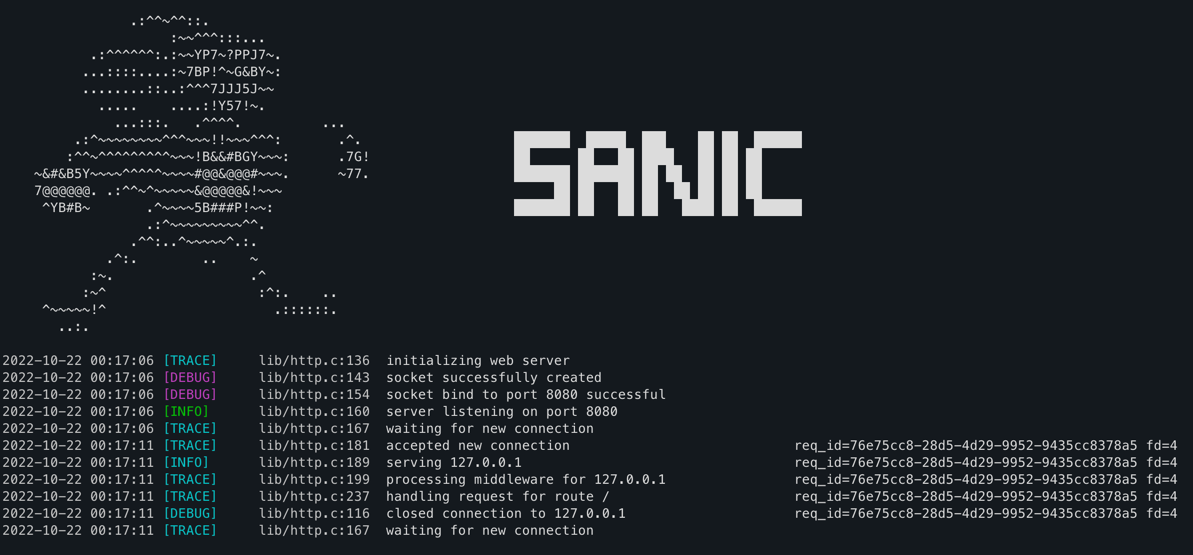
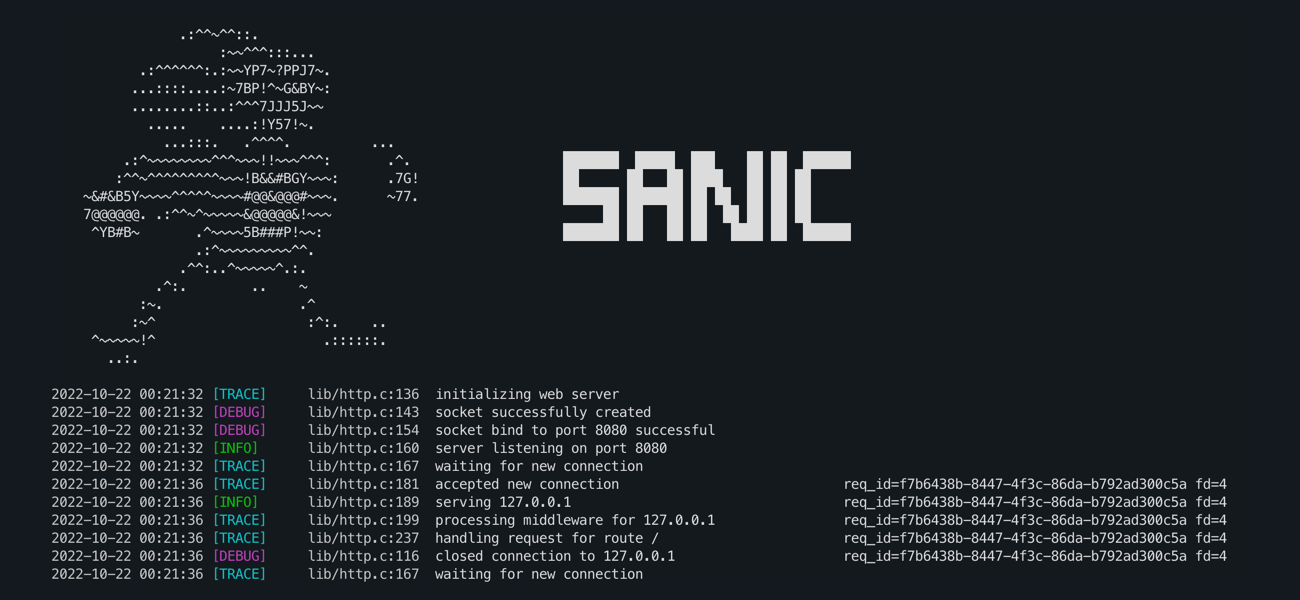
Fix colors in req log

diff --git a/lib/include/log.h b/lib/include/log.h
@@ -51,7 +51,7 @@ printf(sanic_log_fmt(str, "DEBUG", ANSI_COLOR_MAGENTA, __VA_ARGS__)))
 #define sanic_fmt_log_debug_req(req, str, ...) sanic_if_log_level(LEVEL_DEBUG, sanic_get_time_to_buff \
 char __str_buff[500]; \
 sprintf(__str_buff, str, __VA_ARGS__);\
-printf(sanic_log_fmt("%-50s req_id=%s fd=%d", "DEBUG", ANSI_COLOR_CYAN, __str_buff, (req)->req_id, (req)->conn_fd)))
+printf(sanic_log_fmt("%-50s req_id=%s fd=%d", "DEBUG", ANSI_COLOR_MAGENTA, __str_buff, (req)->req_id, (req)->conn_fd)))
 
 #define sanic_fmt_log_trace(str, ...) sanic_if_log_level(LEVEL_TRACE, sanic_get_time_to_buff \
 printf(sanic_log_fmt(str, "TRACE", ANSI_COLOR_CYAN, __VA_ARGS__)))
@@ -69,7 +69,7 @@ printf(sanic_log_fmt(str, "INFO", ANSI_COLOR_GREEN, __VA_ARGS__)))
 #define sanic_fmt_log_info_req(req, str, ...) sanic_if_log_level(LEVEL_INFO, sanic_get_time_to_buff \
 char __str_buff[500]; \
 sprintf(__str_buff, str, __VA_ARGS__);\
-printf(sanic_log_fmt("%-50s req_id=%s fd=%d", "INFO", ANSI_COLOR_CYAN, __str_buff, (req)->req_id, (req)->conn_fd)))
+printf(sanic_log_fmt("%-50s req_id=%s fd=%d", "INFO", ANSI_COLOR_GREEN, __str_buff, (req)->req_id, (req)->conn_fd)))
 
 #define sanic_fmt_log_warn(str, ...) sanic_if_log_level(LEVEL_WARN, sanic_get_time_to_buff \
 printf(sanic_log_fmt(str, "WARN", ANSI_COLOR_YELLOW, __VA_ARGS__)))
